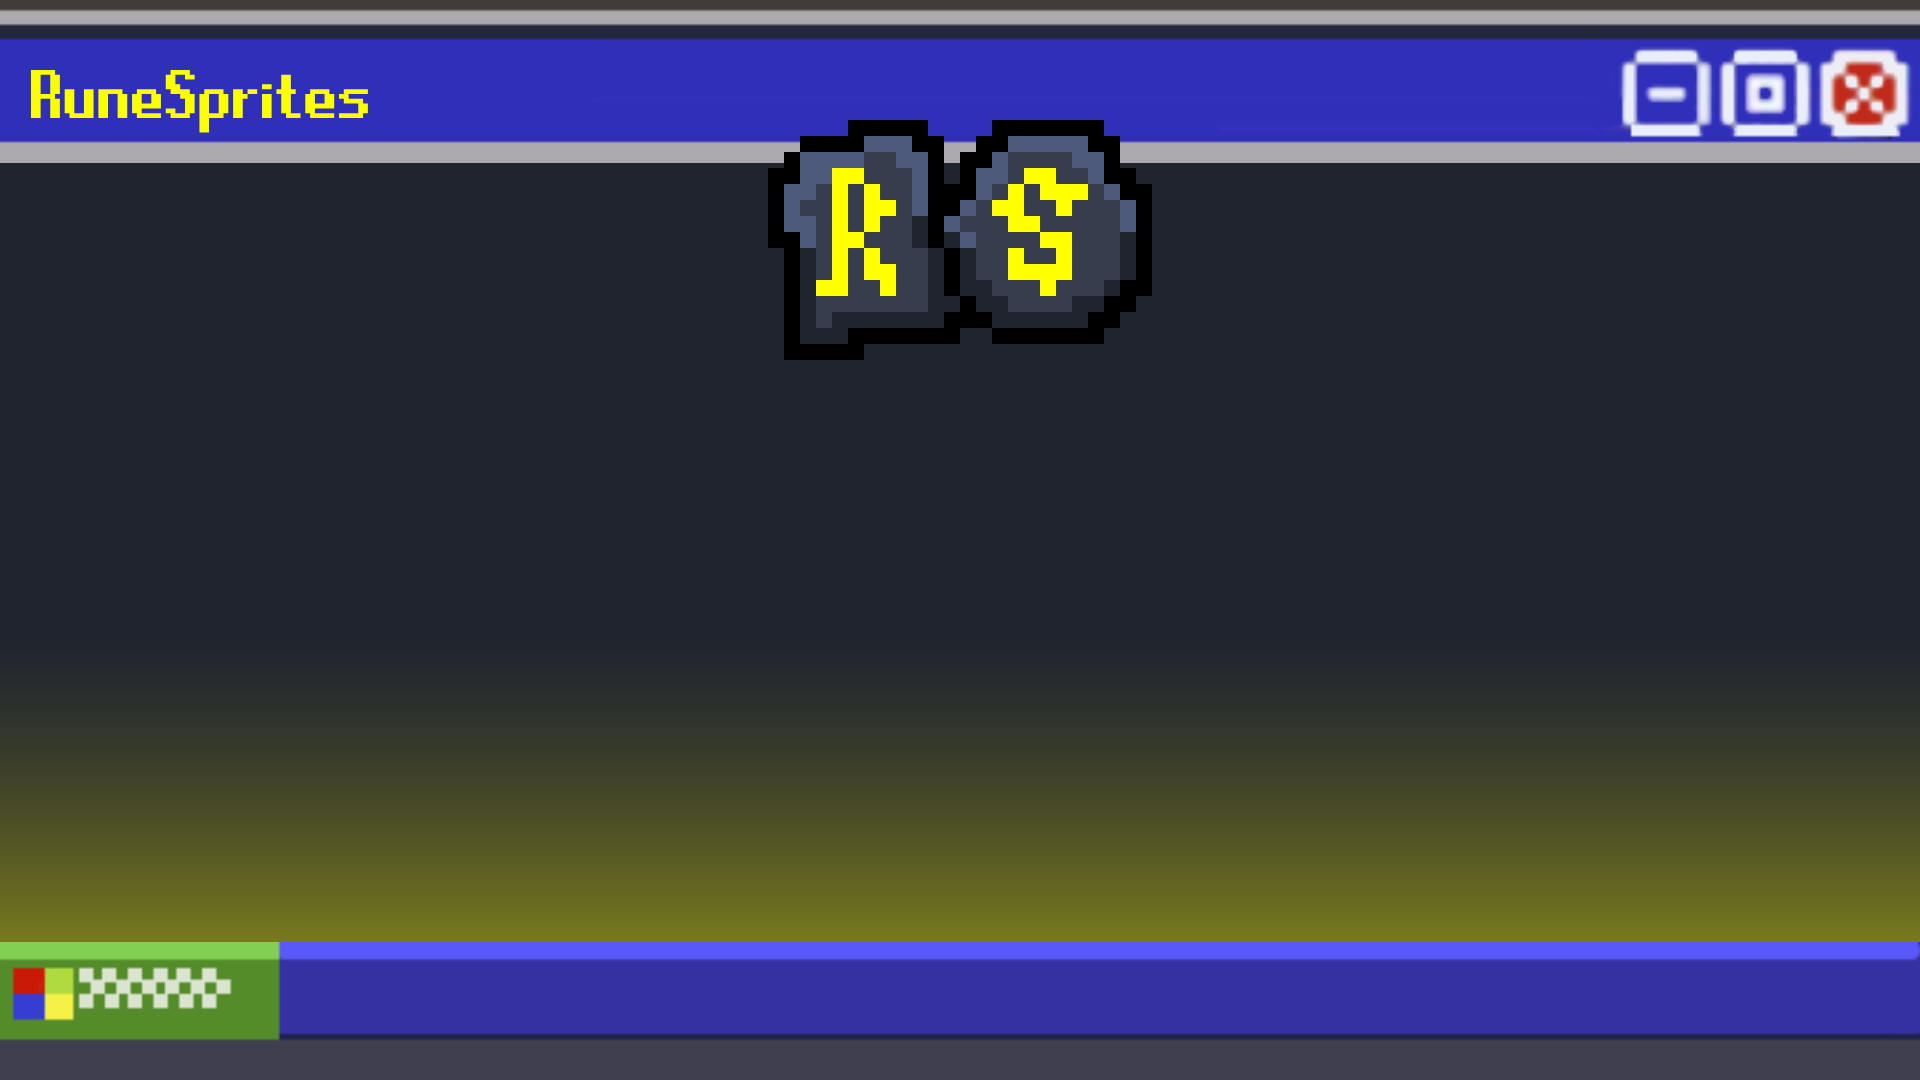
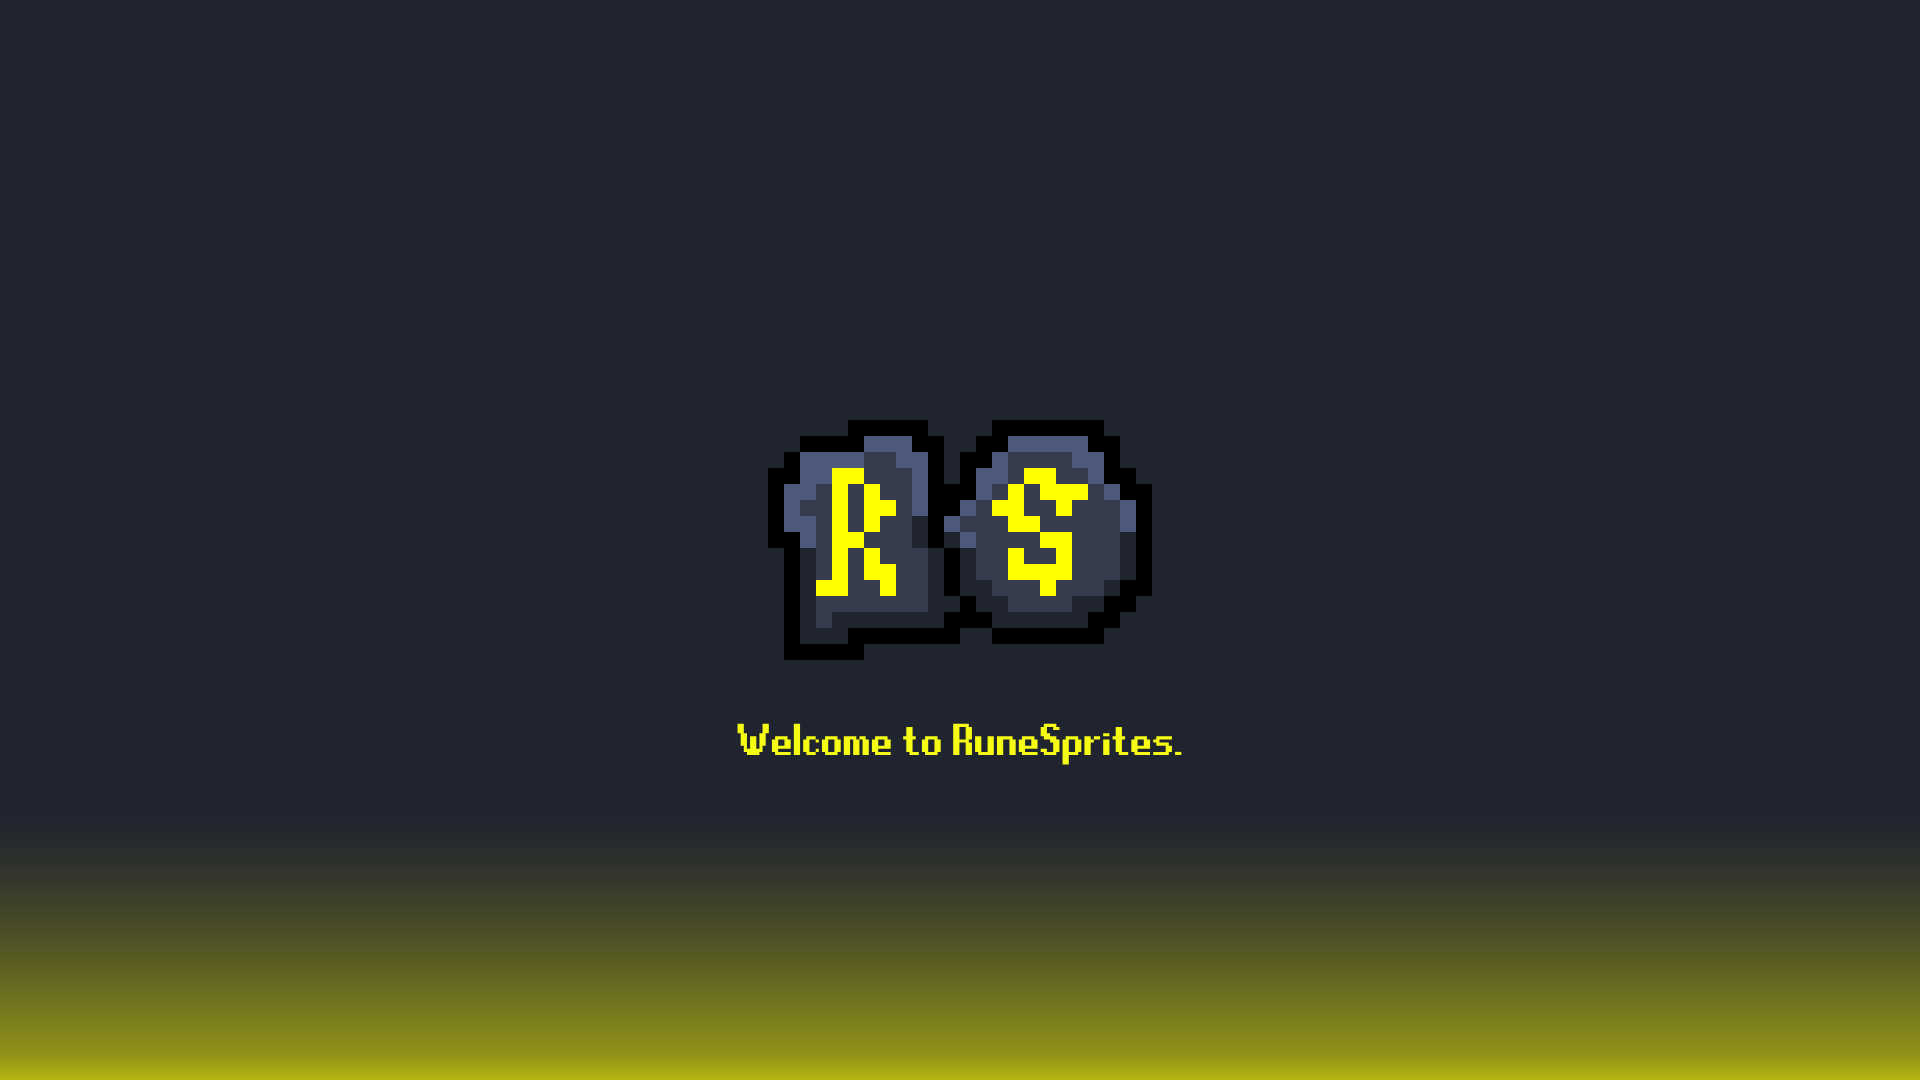
new images

diff --git a/index.html b/index.html
@@ -111,8 +111,13 @@ Description: This file contains all structure of my portfolio page
 
   <section id="gallery" class="fadeIn">
     <h2 class="heading">Gallery</h2>
-    <!-- Gallery content here -->
+    <div class="gallery-container">
+      <!-- Add your image here -->
+      <img src="assets/img/social-share.png" alt="RuneSprites">
+      <!-- Add more images if needed -->
+    </div>
   </section>
+  
   
   <section id="faq" class="fadeIn">
     <h2 class="heading">Frequently Asked Questions (FAQ)</h2>
